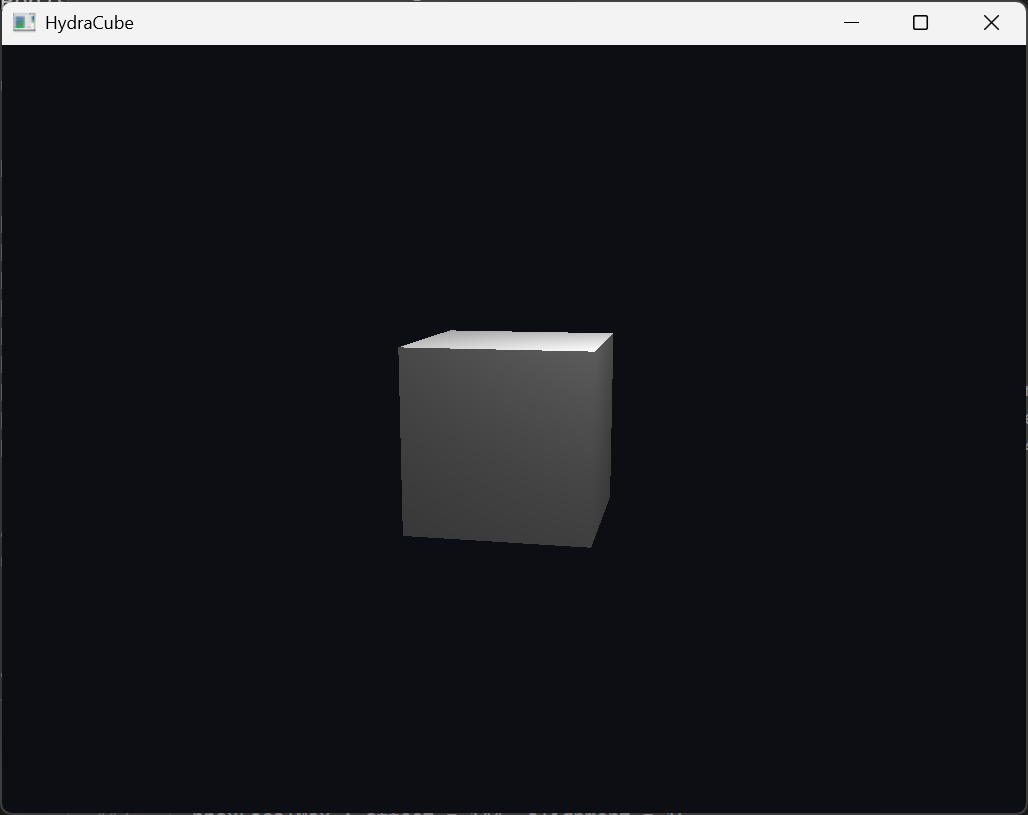
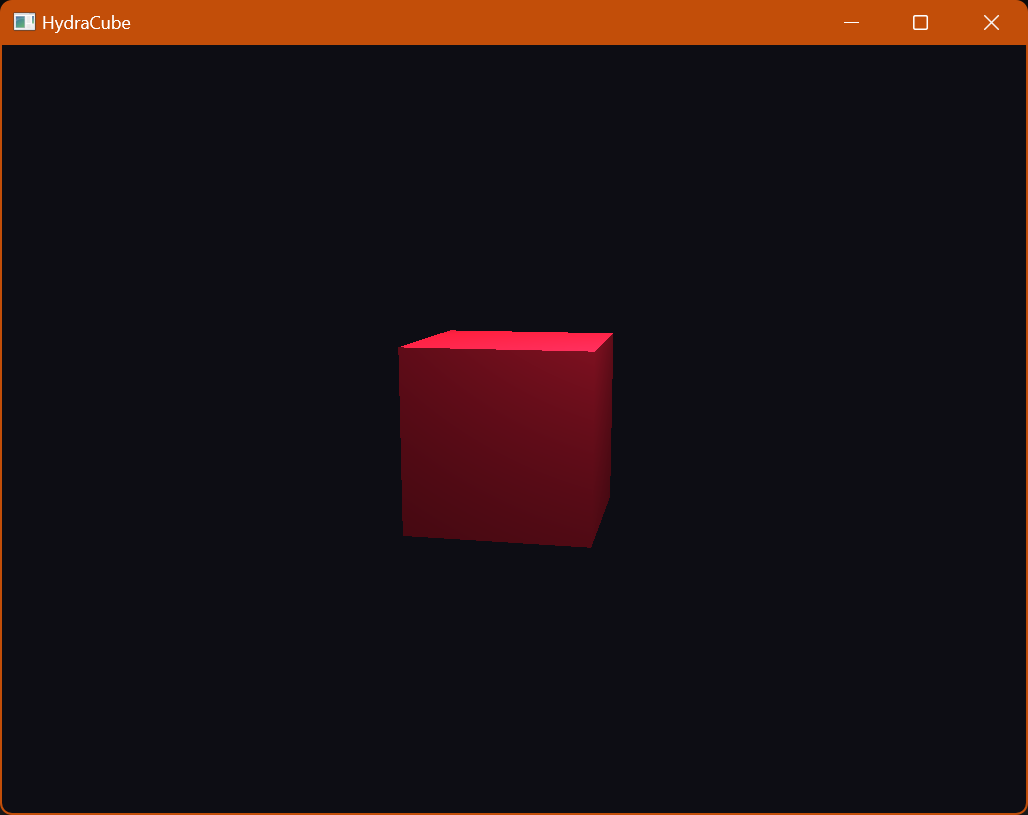
Fix how material network is converted to material schema data source

Changed region(s): [[0.0, 0.0, 1.0, 1.0], [0.3735, 0.3988, 0.6226, 0.6748]]

diff --git a/Code/Apps/HydraCube/Source/MaterialHelpers.cpp b/Code/Apps/HydraCube/Source/MaterialHelpers.cpp
@@ -1,15 +1,10 @@
 #include <MaterialHelpers.hpp>
 
 #include <pxr/base/gf/vec3f.h>
-#include <pxr/imaging/hd/materialConnectionSchema.h>
-#include <pxr/imaging/hd/materialNodeParameterSchema.h>
-#include <pxr/imaging/hd/materialNodeSchema.h>
 #include <pxr/imaging/hd/materialSchema.h>
 #include <pxr/imaging/hd/retainedDataSource.h>
 #include <pxr/imaging/hd/tokens.h>
-// #include <pxr/usdImaging/usdImaging/tokens.h>
-
-#include <print>
+#include <pxr/imaging/hd/utils.h>
 
 auto createSimpleMaterial(const pxr::SdfPath& path, pxr::GfVec3f diffuse_color) -> pxr::HdMaterialNetworkMap
 {
@@ -34,153 +29,11 @@ auto createSimpleMaterial(const pxr::SdfPath& path, pxr::GfVec3f diffuse_color) 
    return network_map;
 }
 
-namespace
-{
-   // Copied from maya-hydra project in lib\mayaHydra\hydraExtensions\sceneIndex\mayaHydraSceneIndexUtils.h file.
-   pxr::HdContainerDataSourceHandle convertToMaterialNetworkSchema(const pxr::HdMaterialNetworkMap& hdNetworkMap)
-   {
-      using namespace pxr;
-      // HD_TRACE_FUNCTION();
-
-      TfTokenVector terminalsNames;
-      std::vector<HdDataSourceBaseHandle> terminalsValues;
-      std::vector<TfToken> nodeNames;
-      std::vector<HdDataSourceBaseHandle> nodeValues;
-
-      struct ParamData
-      {
-         VtValue value;
-         TfToken colorSpace;
-      };
-
-      for (auto const& iter : hdNetworkMap.map)
-      {
-         const TfToken& terminalName        = iter.first;
-         const HdMaterialNetwork& hdNetwork = iter.second;
-
-         if (hdNetwork.nodes.empty())
-         {
-            continue;
-         }
-
-         terminalsNames.push_back(terminalName);
-
-         // Transfer over individual nodes.
-         // Note that the same nodes may be shared by multiple terminals.
-         // We simply overwrite them here.
-         for (const HdMaterialNode& node : hdNetwork.nodes)
-         {
-            std::vector<TfToken> paramsNames;
-            std::vector<HdDataSourceBaseHandle> paramsValues;
-
-            // Gather parameter value and colorspace metadata in paramsInfo, a
-            // mapping of the parameter name to its value and colorspace data.
-            std::map<std::string, ParamData> paramsInfo;
-            for (const auto& p : node.parameters)
-            {
-               // Strip "colorSpace" prefix
-               const std::pair<std::string, bool> res =
-                  SdfPath::StripPrefixNamespace(p.first, HdMaterialNodeParameterSchemaTokens->colorSpace);
-
-               // Colorspace metadata
-               if (res.second)
-               {
-                  paramsInfo[res.first].colorSpace = p.second.Get<TfToken>();
-               }
-               // Value
-               else
-               {
-                  paramsInfo[p.first].value = p.second.Get<VtValue>();
-               }
-            }
-
-            // Create and store the HdMaterialNodeParameter DataSource
-            for (const auto& item : paramsInfo)
-            {
-               paramsNames.push_back(TfToken(item.first));
-               paramsValues.push_back(HdMaterialNodeParameterSchema::Builder()
-                                         .SetValue(HdRetainedTypedSampledDataSource<VtValue>::New(item.second.value))
-                                         .SetColorSpace(
-                                            item.second.colorSpace.IsEmpty()
-                                               ? nullptr
-                                               : HdRetainedTypedSampledDataSource<TfToken>::New(item.second.colorSpace))
-                                         .Build());
-            }
-
-            // Accumulate array connections to the same input
-            TfDenseHashMap<TfToken, TfSmallVector<HdDataSourceBaseHandle, 8>, TfToken::HashFunctor> connectionsMap;
-
-            TfSmallVector<TfToken, 8> cNames;
-            TfSmallVector<HdDataSourceBaseHandle, 8> cValues;
-
-            for (const HdMaterialRelationship& rel : hdNetwork.relationships)
-            {
-               if (rel.outputId == node.path)
-               {
-                  TfToken outputPath = rel.inputId.GetToken();
-                  TfToken outputName = TfToken(rel.inputName.GetString());
-
-                  HdDataSourceBaseHandle c =
-                     HdMaterialConnectionSchema::Builder()
-                        .SetUpstreamNodePath(HdRetainedTypedSampledDataSource<TfToken>::New(outputPath))
-                        .SetUpstreamNodeOutputName(HdRetainedTypedSampledDataSource<TfToken>::New(outputName))
-                        .Build();
-
-                  connectionsMap[TfToken(rel.outputName.GetString())].push_back(c);
-               }
-            }
-
-            cNames.reserve(connectionsMap.size());
-            cValues.reserve(connectionsMap.size());
-
-            // NOTE: not const because HdRetainedSmallVectorDataSource needs
-            //       a non-const HdDataSourceBaseHandle*
-            for (auto& entryPair : connectionsMap)
-            {
-               cNames.push_back(entryPair.first);
-               cValues.push_back(
-                  HdRetainedSmallVectorDataSource::New(entryPair.second.size(), entryPair.second.data()));
-            }
-
-            nodeNames.push_back(node.path.GetToken());
-            nodeValues.push_back(
-               HdMaterialNodeSchema::Builder()
-                  .SetParameters(
-                     HdRetainedContainerDataSource::New(paramsNames.size(), paramsNames.data(), paramsValues.data()))
-                  .SetInputConnections(HdRetainedContainerDataSource::New(cNames.size(), cNames.data(), cValues.data()))
-                  .SetNodeIdentifier(HdRetainedTypedSampledDataSource<TfToken>::New(node.identifier))
-                  .Build());
-         }
-
-         terminalsValues.push_back(
-            HdMaterialConnectionSchema::Builder()
-               .SetUpstreamNodePath(
-                  HdRetainedTypedSampledDataSource<TfToken>::New(hdNetwork.nodes.back().path.GetToken()))
-               .SetUpstreamNodeOutputName(HdRetainedTypedSampledDataSource<TfToken>::New(terminalsNames.back()))
-               .Build());
-      }
-
-      HdContainerDataSourceHandle nodesDefaultContext =
-         HdRetainedContainerDataSource::New(nodeNames.size(), nodeNames.data(), nodeValues.data());
-
-      HdContainerDataSourceHandle terminalsDefaultContext =
-         HdRetainedContainerDataSource::New(terminalsNames.size(), terminalsNames.data(), terminalsValues.data());
-
-      return HdMaterialNetworkSchema::Builder()
-         .SetNodes(nodesDefaultContext)
-         .SetTerminals(terminalsDefaultContext)
-         .Build();
-   }
-
-}   // namespace
-
 auto convertMaterialNetworkToDataSource(const pxr::HdMaterialNetworkMap& network_map)
    -> pxr::HdContainerDataSourceHandle
 {
    using namespace pxr;
-
-   HdDataSourceBaseHandle network = convertToMaterialNetworkSchema(network_map);
-
-   TfToken defaultContext = HdMaterialSchemaTokens->universalRenderContext;
-   return HdMaterialSchema::BuildRetained(1, &defaultContext, &network);
+   auto material_data_source = HdUtils::ConvertHdMaterialNetworkToHdMaterialSchema(network_map);
+   auto data_source = HdRetainedContainerDataSource::New(HdPrimTypeTokens->material, material_data_source);
+   return data_source;
 }

diff --git a/README.md b/README.md
@@ -1,6 +1,6 @@
 # HydraCube
-Draw a cube with Hydra
-Trying to get materials work but they are not working.
+Draw a red cube with Hydra.
+
 
 # Building
 Only tested on windows.
@@ -13,5 +13,4 @@ Only tested on windows.
 
 
 # Cube
-The cube drawn without any materials.
-![Cube without material](Docs/Cube.png)
+![Cube with red material](Docs/Cube.png)
